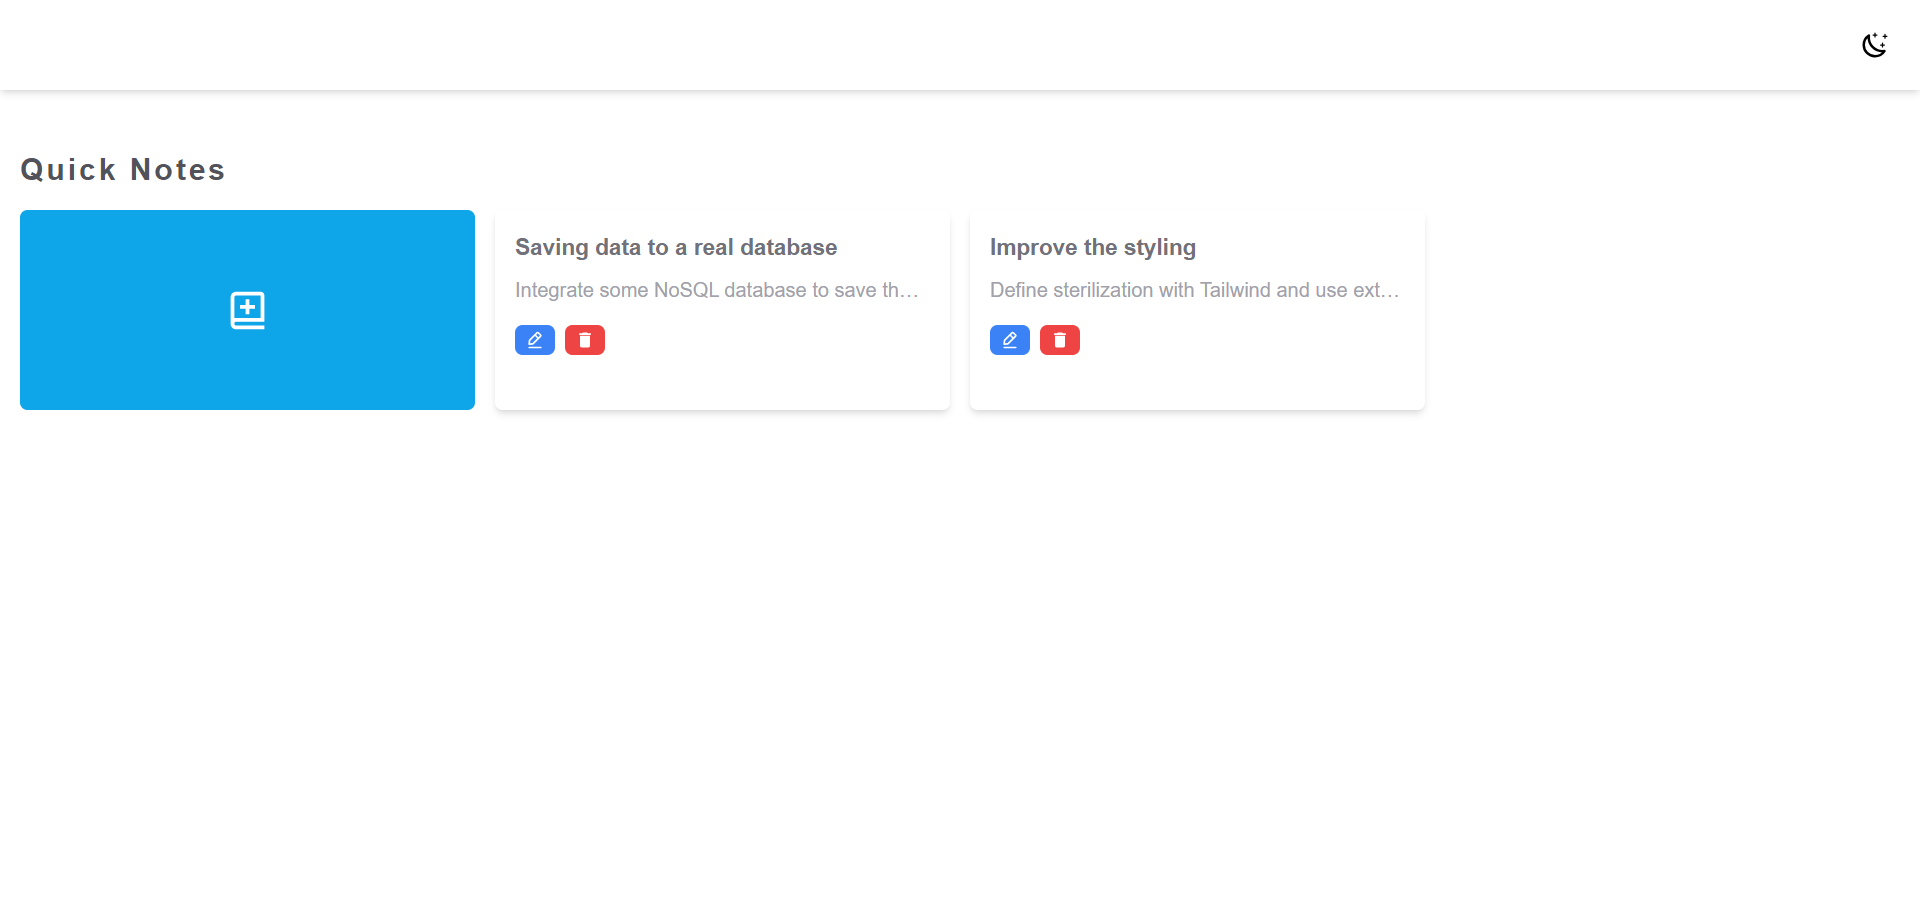
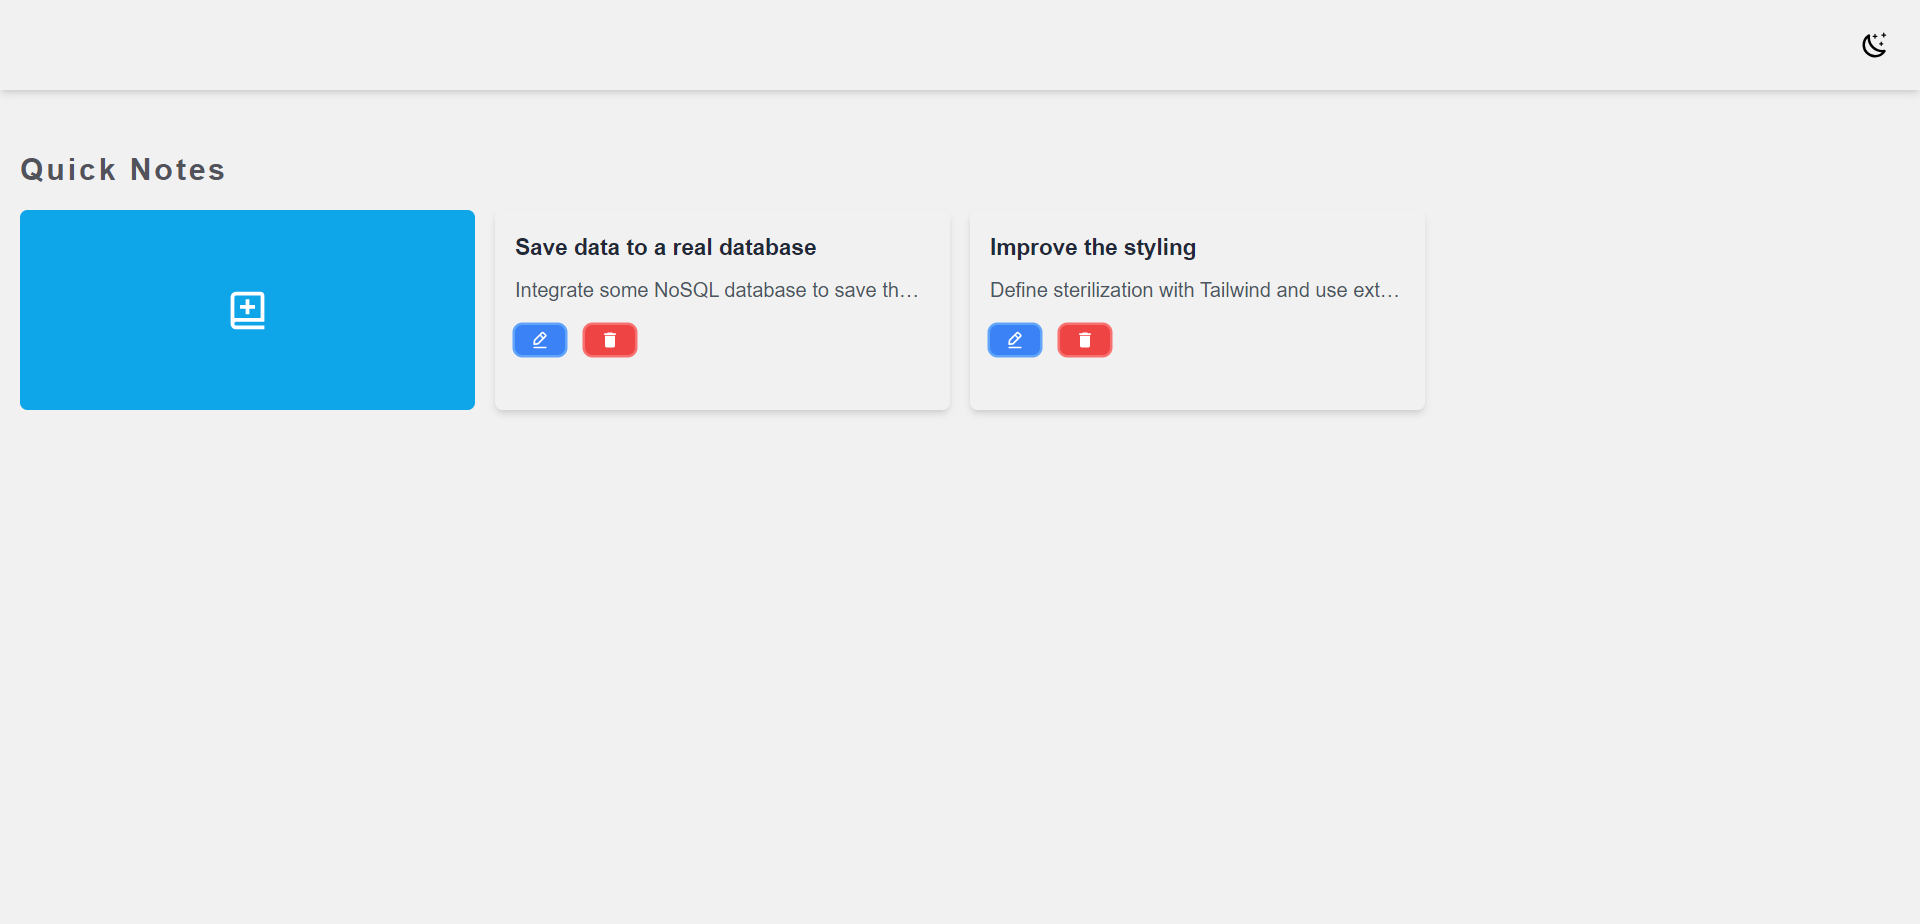
docs: update screenshots and fix broken link in markdown

Changed region(s): [[0.25, 0.2424, 0.4688, 0.3939], [0.5, 0.303, 0.7188, 0.3939], [0.5, 0.2424, 0.625, 0.2727]]

diff --git a/README.md b/README.md
@@ -103,4 +103,4 @@ Project Link: [https://github.com/SilasRodrigues19/QuickNotes](https://github.co
 [project-link]: https://quick-notes-one.vercel.app/
 
 <br><hr>
-[🔼 Back to top](#Quick-Notes)
+[🔼 Back to top](#quick-notes)
